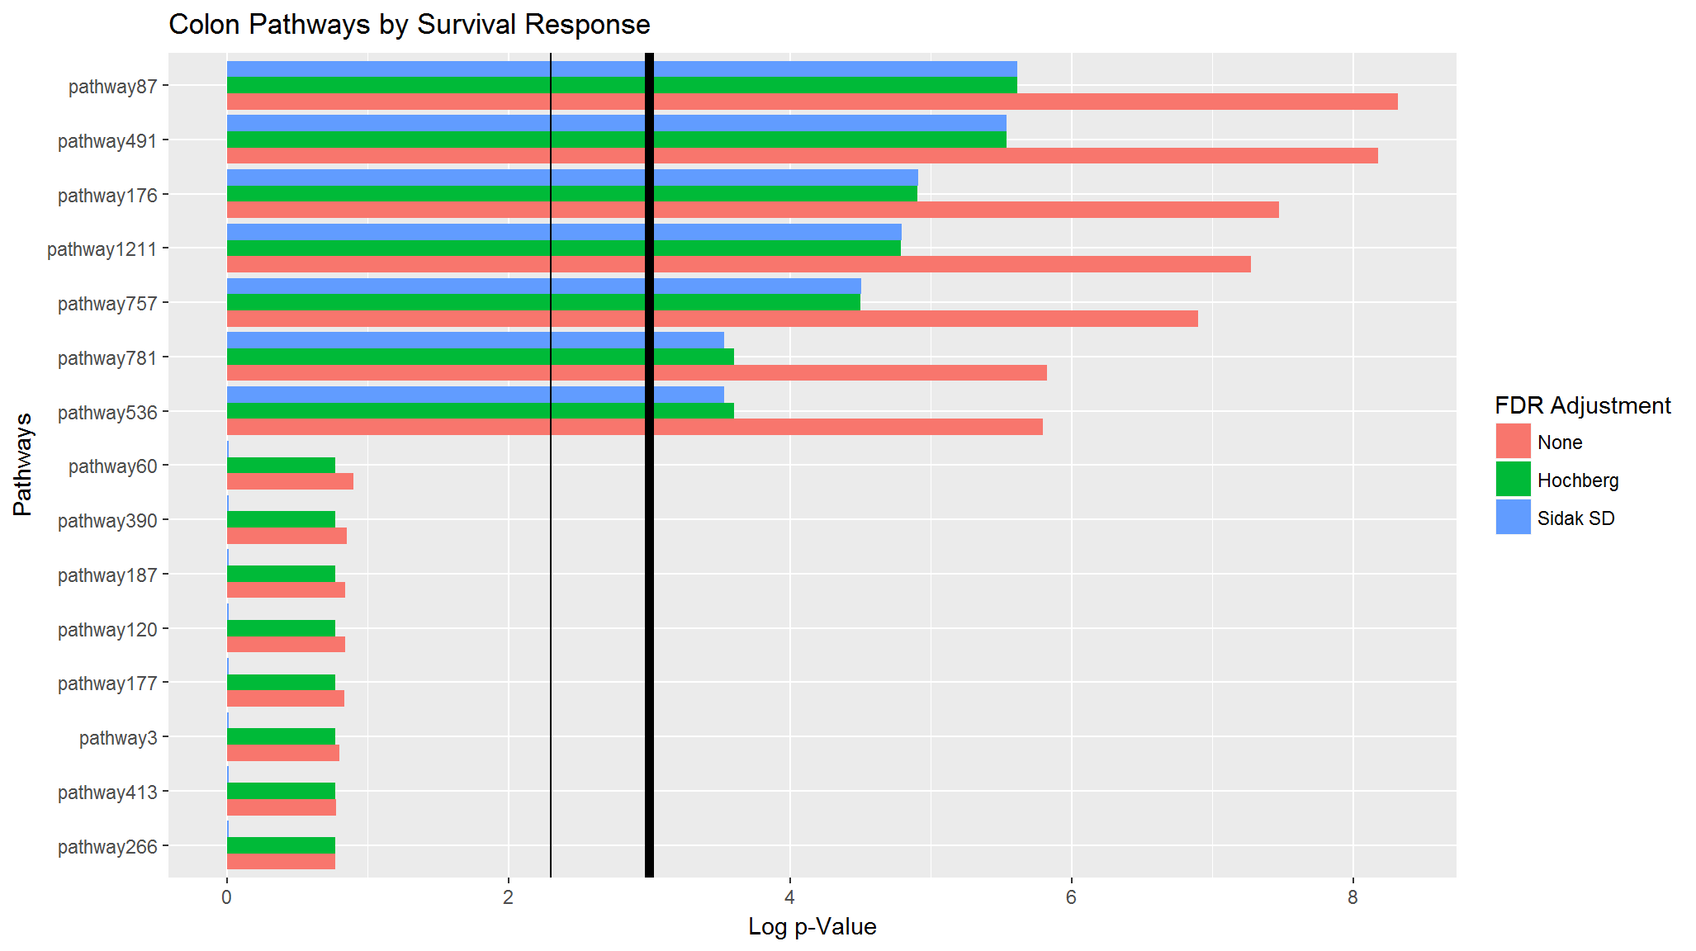
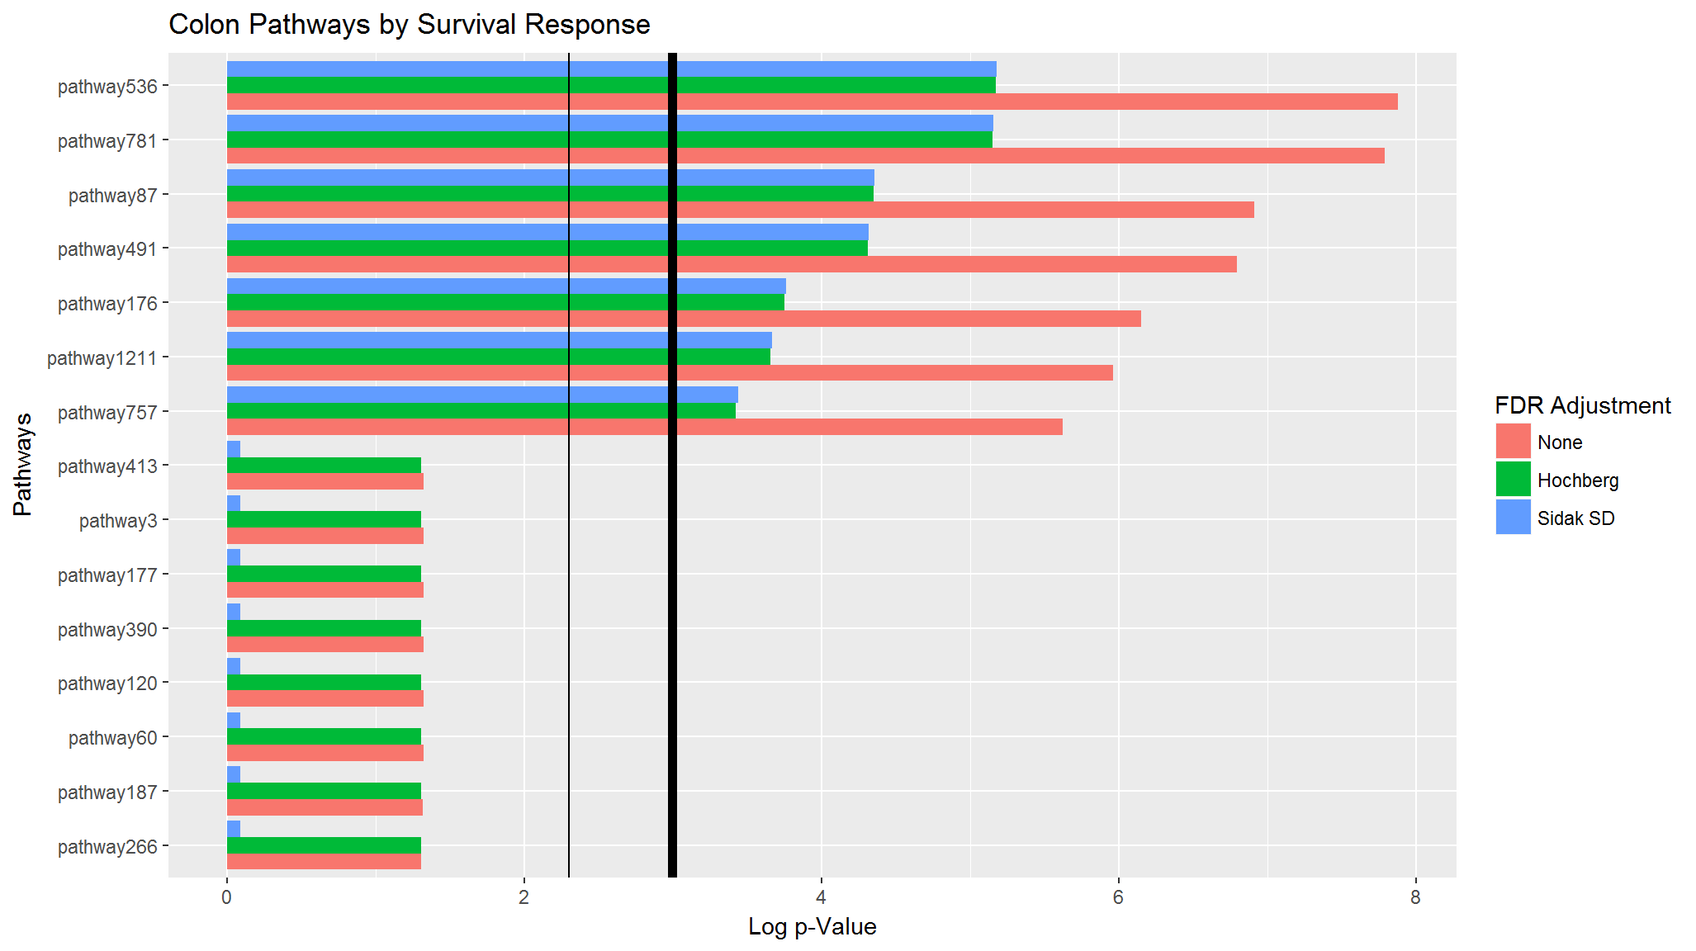
Started working on the "Data import" vignette.
Added TOC to the other vignettes.

diff --git a/docs/articles/Supervised_PCA_Walkthrough.html b/docs/articles/Supervised_PCA_Walkthrough.html
@@ -48,6 +48,9 @@
       <a href="../articles/AES-PCA_Walkthrough.html">AES-PCA Walkthrough with pathwayPCA</a>
     </li>
     <li>
+      <a href="../articles/Importing_Data.html">Import and Tidy Data</a>
+    </li>
+    <li>
       <a href="../articles/Package_Dev_Notes.html">pathwayPCA Package Development Notes</a>
     </li>
     <li>
@@ -81,7 +84,7 @@
       <h1>Supervised PCA Walkthrough with pathwayPCA</h1>
                         <h4 class="author">Gabriel Odom</h4>
             
-            <h4 class="date">2018-03-23</h4>
+            <h4 class="date">2018-04-04</h4>
           </div>
 
     
@@ -308,7 +311,7 @@ surv_pVals_df &lt;-<span class="st"> </span><span class="kw"><a href="../referen
 <span class="co">#&gt; Adjusting p-Values and Sorting Pathway p-Value Data Frame</span>
 <span class="co">#&gt; DONE</span>
 <span class="kw">Sys.time</span>() <span class="op">-</span><span class="st"> </span>a
-<span class="co">#&gt; Time difference of 5.911906 secs</span></code></pre></div>
+<span class="co">#&gt; Time difference of 5.849728 secs</span></code></pre></div>
 </div>
 <div id="regression-response" class="section level3">
 <h3 class="hasAnchor">
@@ -336,7 +339,7 @@ reg_pVals_df &lt;-<span class="st"> </span><span class="kw"><a href="../referenc
 <span class="co">#&gt; Adjusting p-Values and Sorting Pathway p-Value Data Frame</span>
 <span class="co">#&gt; DONE</span>
 <span class="kw">Sys.time</span>() <span class="op">-</span><span class="st"> </span>b
-<span class="co">#&gt; Time difference of 5.257252 secs</span></code></pre></div>
+<span class="co">#&gt; Time difference of 4.705522 secs</span></code></pre></div>
 </div>
 <div id="binary-classification-response" class="section level3">
 <h3 class="hasAnchor">
@@ -364,7 +367,7 @@ categ_pVals_df &lt;-<span class="st"> </span><span class="kw"><a href="../refere
 <span class="co">#&gt; Adjusting p-Values and Sorting Pathway p-Value Data Frame</span>
 <span class="co">#&gt; DONE</span>
 <span class="kw">Sys.time</span>() <span class="op">-</span><span class="st"> </span>d
-<span class="co">#&gt; Time difference of 7.75775 secs</span></code></pre></div>
+<span class="co">#&gt; Time difference of 6.839824 secs</span></code></pre></div>
 </div>
 </div>
 <div id="subset-the-top-pathways" class="section level2">
@@ -372,12 +375,12 @@ categ_pVals_df &lt;-<span class="st"> </span><span class="kw"><a href="../refere
 <a href="#subset-the-top-pathways" class="anchor"></a>Subset the Top Pathways</h2>
 <p>Now that we have the pathway-specific <span class="math inline">\(p\)</span>-values, we can inspect the top pathways by significance. We will first subset the data frame returned by the <code><a href="../reference/superPCA_pVals.html">superPCA_pVals()</a></code> function, then plot the most significant <span class="math inline">\(p\)</span>-values using the <code>ggplot2::</code> package. For graphics, we will need two new packages:</p>
 <div class="sourceCode"><pre class="sourceCode r"><code class="sourceCode r"><span class="kw">library</span>(tidyverse)
-<span class="co">#&gt; -- Attaching packages -------------------------------------------------------------------------------------------------- tidyverse 1.2.1 --</span>
+<span class="co">#&gt; -- Attaching packages ------------------------------------------------------------------------------------------------------------------- tidyverse 1.2.1 --</span>
 <span class="co">#&gt; v ggplot2 2.2.1     v purrr   0.2.4</span>
 <span class="co">#&gt; v tibble  1.4.2     v dplyr   0.7.4</span>
 <span class="co">#&gt; v tidyr   0.8.0     v stringr 1.3.0</span>
 <span class="co">#&gt; v readr   1.1.1     v forcats 0.3.0</span>
-<span class="co">#&gt; -- Conflicts ----------------------------------------------------------------------------------------------------- tidyverse_conflicts() --</span>
+<span class="co">#&gt; -- Conflicts ---------------------------------------------------------------------------------------------------------------------- tidyverse_conflicts() --</span>
 <span class="co">#&gt; x dplyr::filter() masks stats::filter()</span>
 <span class="co">#&gt; x dplyr::lag()    masks stats::lag()</span>
 <span class="kw">library</span>(reshape2)
@@ -478,22 +481,18 @@ S_j := - \frac{1}{A}\sum\limits_{a = 1}^A \log(p_{aj}).
 <p>Now consider the rows of this matrix. Each row is a gene, and the <span class="math inline">\(j^{th}\)</span> entry in the row is equal to <span class="math inline">\(S_j\)</span>, if the gene is included in pathway <span class="math inline">\(j\)</span>, and 0 otherwise. These genes can be compared by the raw row sum of scores, or by the average of the non-zero scores. The <code><a href="../reference/topGenes.html">topGenes()</a></code> function returns the top 5% of both. As we can see, most of the genes included in the <code>summedRank</code> vector are the in the list of “usual suspects” for colon cancer.</p>
 <div class="sourceCode"><pre class="sourceCode r"><code class="sourceCode r"><span class="kw"><a href="../reference/topGenes.html">topGenes</a></span>(<span class="dt">object =</span> colon_OmicsSurv, <span class="dt">pVals_df =</span> surv_pVals_df, <span class="dt">percentile =</span> <span class="fl">0.02</span>)
 <span class="co">#&gt; $summedRank</span>
-<span class="co">#&gt;   PIK3CA   PIK3R1    MAPK1   MAP2K1     NRAS     GRB2    MAPK3     HRAS </span>
-<span class="co">#&gt; 28.91327 28.91327 25.66950 25.34743 25.34743 25.34743 25.34743 25.34743 </span>
-<span class="co">#&gt;     KRAS   PIK3CB   PIK3R2     SHC1      CRK </span>
-<span class="co">#&gt; 25.34743 23.37546 23.37546 20.44055 20.44055 </span>
+<span class="co">#&gt;   PIK3CA   PIK3R1   PIK3CB   PIK3R2    MAPK1   MAP2K1     NRAS     GRB2 </span>
+<span class="co">#&gt; 24.67401 24.67401 20.36042 20.36042 20.04292 19.52017 19.52017 19.52017 </span>
+<span class="co">#&gt;    MAPK3     HRAS     KRAS     SHC1      CRK </span>
+<span class="co">#&gt; 19.52017 19.52017 19.52017 15.76274 15.76274 </span>
 <span class="co">#&gt; </span>
 <span class="co">#&gt; $averagedRank</span>
-<span class="co">#&gt;     PAK3      BTC     ELK1     NRG1     PAK4     NRG3    MAPK9    ERBB4 </span>
-<span class="co">#&gt; 5.612152 5.612152 5.612152 5.612152 5.612152 5.612152 5.612152 5.612152 </span>
-<span class="co">#&gt;   MAPK10    ERBB3     ABL1     NRG2     ABL2     SHC4  RPS6KB2     AREG </span>
-<span class="co">#&gt; 5.612152 5.612152 5.612152 5.612152 5.612152 5.612152 5.612152 5.612152 </span>
-<span class="co">#&gt;   STAT5B   STAT5A     PAK6      MYC     NRG4    GSK3B     CBLB      CBL </span>
-<span class="co">#&gt; 5.612152 5.612152 5.612152 5.612152 5.612152 5.612152 5.612152 5.612152 </span>
-<span class="co">#&gt;   CDKN1B   CDKN1A     EREG     NCK2   CAMK2A   CAMK2B   CAMK2D   CAMK2G </span>
-<span class="co">#&gt; 5.612152 5.612152 5.612152 5.612152 5.612152 5.612152 5.612152 5.612152 </span>
-<span class="co">#&gt;     CBLC     CRKL    HBEGF </span>
-<span class="co">#&gt; 5.612152 5.612152 5.612152</span></code></pre></div>
+<span class="co">#&gt;   MAP4K5    TRAF1     RFFL    STAT1    NSMAF   MAP3K5     TAB2    PRKCZ </span>
+<span class="co">#&gt; 5.175565 5.175565 5.175565 5.175565 5.175565 5.175565 5.175565 5.175565 </span>
+<span class="co">#&gt;  TNFAIP3     CAV1   MAP3K3    PRKCI    BIRC3      TXN   SQSTM1   MAP4K3 </span>
+<span class="co">#&gt; 5.175565 5.175565 5.175565 5.175565 5.175565 5.175565 5.175565 5.175565 </span>
+<span class="co">#&gt;   MAP4K2     TAB1     TNIK      NRK   ADAM17     CYLD    BIRC2 </span>
+<span class="co">#&gt; 5.175565 5.175565 5.175565 5.175565 5.175565 5.175565 5.175565</span></code></pre></div>
 </div>
 </div>
   </div>

diff --git a/docs/articles/AES-PCA_Walkthrough.html b/docs/articles/AES-PCA_Walkthrough.html
@@ -48,6 +48,9 @@
       <a href="../articles/AES-PCA_Walkthrough.html">AES-PCA Walkthrough with pathwayPCA</a>
     </li>
     <li>
+      <a href="../articles/Importing_Data.html">Import and Tidy Data</a>
+    </li>
+    <li>
       <a href="../articles/Package_Dev_Notes.html">pathwayPCA Package Development Notes</a>
     </li>
     <li>
@@ -81,7 +84,7 @@
       <h1>AES-PCA Walkthrough with pathwayPCA</h1>
                         <h4 class="author">Gabriel Odom</h4>
             
-            <h4 class="date">2018-03-23</h4>
+            <h4 class="date">2018-04-04</h4>
           </div>
 
     
@@ -303,7 +306,7 @@ surv_pVals_df &lt;-<span class="st"> </span><span class="kw"><a href="../referen
 <span class="co">#&gt;  Part 3: Adjusting p-Values and Sorting Pathway p-Value Data Frame</span>
 <span class="co">#&gt; DONE</span>
 <span class="kw">Sys.time</span>() <span class="op">-</span><span class="st"> </span>a
-<span class="co">#&gt; Time difference of 28.35032 secs</span></code></pre></div>
+<span class="co">#&gt; Time difference of 25.72435 secs</span></code></pre></div>
 </div>
 <div id="regression-response" class="section level3">
 <h3 class="hasAnchor">
@@ -337,7 +340,7 @@ reg_pVals_df &lt;-<span class="st"> </span><span class="kw"><a href="../referenc
 <span class="co">#&gt;  Part 3: Adjusting p-Values and Sorting Pathway p-Value Data Frame</span>
 <span class="co">#&gt; DONE</span>
 <span class="kw">Sys.time</span>() <span class="op">-</span><span class="st"> </span>b
-<span class="co">#&gt; Time difference of 16.29027 secs</span></code></pre></div>
+<span class="co">#&gt; Time difference of 14.09975 secs</span></code></pre></div>
 </div>
 <div id="binary-classification-response" class="section level3">
 <h3 class="hasAnchor">
@@ -371,7 +374,7 @@ categ_pVals_df &lt;-<span class="st"> </span><span class="kw"><a href="../refere
 <span class="co">#&gt;  Part 3: Adjusting p-Values and Sorting Pathway p-Value Data Frame</span>
 <span class="co">#&gt; DONE</span>
 <span class="kw">Sys.time</span>() <span class="op">-</span><span class="st"> </span>d
-<span class="co">#&gt; Time difference of 26.89987 secs</span></code></pre></div>
+<span class="co">#&gt; Time difference of 23.40692 secs</span></code></pre></div>
 </div>
 </div>
 <div id="subset-the-top-pathways" class="section level2">
@@ -379,12 +382,12 @@ categ_pVals_df &lt;-<span class="st"> </span><span class="kw"><a href="../refere
 <a href="#subset-the-top-pathways" class="anchor"></a>Subset the Top Pathways</h2>
 <p>Now that we have the pathway-specific <span class="math inline">\(p\)</span>-values, we can inspect the top pathways by significance. We will first subset the data frame returned by the <code><a href="../reference/superPCA_pVals.html">superPCA_pVals()</a></code> function, then plot the most significant <span class="math inline">\(p\)</span>-values using the <code>ggplot2::</code> package. For graphics, we will need two new packages:</p>
 <div class="sourceCode"><pre class="sourceCode r"><code class="sourceCode r"><span class="kw">library</span>(tidyverse)
-<span class="co">#&gt; -- Attaching packages -------------------------------------------------------------------------------------------------- tidyverse 1.2.1 --</span>
+<span class="co">#&gt; -- Attaching packages ------------------------------------------------------------------------------------------------------------------- tidyverse 1.2.1 --</span>
 <span class="co">#&gt; v ggplot2 2.2.1     v purrr   0.2.4</span>
 <span class="co">#&gt; v tibble  1.4.2     v dplyr   0.7.4</span>
 <span class="co">#&gt; v tidyr   0.8.0     v stringr 1.3.0</span>
 <span class="co">#&gt; v readr   1.1.1     v forcats 0.3.0</span>
-<span class="co">#&gt; -- Conflicts ----------------------------------------------------------------------------------------------------- tidyverse_conflicts() --</span>
+<span class="co">#&gt; -- Conflicts ---------------------------------------------------------------------------------------------------------------------- tidyverse_conflicts() --</span>
 <span class="co">#&gt; x dplyr::filter() masks stats::filter()</span>
 <span class="co">#&gt; x dplyr::lag()    masks stats::lag()</span>
 <span class="kw">library</span>(reshape2)
@@ -486,27 +489,27 @@ S_j := - \frac{1}{A}\sum\limits_{a = 1}^A \log(p_{aj}).
 <div class="sourceCode"><pre class="sourceCode r"><code class="sourceCode r"><span class="kw"><a href="../reference/topGenes.html">topGenes</a></span>(<span class="dt">object =</span> colon_OmicsSurv, <span class="dt">pVals_df =</span> surv_pVals_df, <span class="dt">percentile =</span> <span class="fl">0.02</span>)
 <span class="co">#&gt; $summedRank</span>
 <span class="co">#&gt;   PIK3CA   PIK3R1    MAPK1   MAP2K1     NRAS     GRB2    MAPK3     HRAS </span>
-<span class="co">#&gt; 21.77699 21.77699 17.51243 17.47818 17.47818 17.47818 17.47818 17.47818 </span>
+<span class="co">#&gt; 16.79290 16.79290 13.17714 13.13627 13.13627 13.13627 13.13627 13.13627 </span>
 <span class="co">#&gt;     KRAS   PIK3CB   PIK3R2     SHC1      CRK </span>
-<span class="co">#&gt; 17.47818 17.47818 17.47818 17.44393 17.44393 </span>
+<span class="co">#&gt; 13.13627 13.13627 13.13627 13.09540 13.09540 </span>
 <span class="co">#&gt; </span>
 <span class="co">#&gt; $averagedRank</span>
 <span class="co">#&gt;     FRS2    THEM4      KLB     DOK1    EIF4B    EIF4E   EIF4G1     FGF1 </span>
-<span class="co">#&gt; 5.839461 5.839461 5.839461 5.839461 5.839461 5.839461 5.839461 5.839461 </span>
+<span class="co">#&gt; 3.929912 3.929912 3.929912 3.929912 3.929912 3.929912 3.929912 3.929912 </span>
 <span class="co">#&gt;     FGF2     FGF3     FGF4     FGF5     FGF6     FGF7     FGF8     FGF9 </span>
-<span class="co">#&gt; 5.839461 5.839461 5.839461 5.839461 5.839461 5.839461 5.839461 5.839461 </span>
+<span class="co">#&gt; 3.929912 3.929912 3.929912 3.929912 3.929912 3.929912 3.929912 3.929912 </span>
 <span class="co">#&gt;    FGF10    FGFR1    FGFR3    FGFR2    FGFR4    FGF20    FGF22    GRB10 </span>
-<span class="co">#&gt; 5.839461 5.839461 5.839461 5.839461 5.839461 5.839461 5.839461 5.839461 </span>
+<span class="co">#&gt; 3.929912 3.929912 3.929912 3.929912 3.929912 3.929912 3.929912 3.929912 </span>
 <span class="co">#&gt;      INS     INSR     IRS1    PDE3B   PRKAG2    CAB39   PRKAG3     TLR9 </span>
-<span class="co">#&gt; 5.839461 5.839461 5.839461 5.839461 5.839461 5.839461 5.839461 5.839461 </span>
+<span class="co">#&gt; 3.929912 3.929912 3.929912 3.929912 3.929912 3.929912 3.929912 3.929912 </span>
 <span class="co">#&gt;    PPM1A   STRADB   PRKAA1   PRKAA2   PRKAB1   PRKAB2   PRKAG1    RPTOR </span>
-<span class="co">#&gt; 5.839461 5.839461 5.839461 5.839461 5.839461 5.839461 5.839461 5.839461 </span>
+<span class="co">#&gt; 3.929912 3.929912 3.929912 3.929912 3.929912 3.929912 3.929912 3.929912 </span>
 <span class="co">#&gt;    TRIB3     RHEB     RPS6    MLST8    STK11     TSC1     TSC2    YWHAB </span>
-<span class="co">#&gt; 5.839461 5.839461 5.839461 5.839461 5.839461 5.839461 5.839461 5.839461 </span>
+<span class="co">#&gt; 3.929912 3.929912 3.929912 3.929912 3.929912 3.929912 3.929912 3.929912 </span>
 <span class="co">#&gt;    FGF23   CAB39L     IRS2    FGF18    FGF17   STRADA       KL     CDK1 </span>
-<span class="co">#&gt; 5.839461 5.839461 5.839461 5.839461 5.839461 5.839461 5.839461 5.839461 </span>
+<span class="co">#&gt; 3.929912 3.929912 3.929912 3.929912 3.929912 3.929912 3.929912 3.929912 </span>
 <span class="co">#&gt;    FGF19 </span>
-<span class="co">#&gt; 5.839461</span></code></pre></div>
+<span class="co">#&gt; 3.929912</span></code></pre></div>
 </div>
 </div>
   </div>

diff --git a/docs/articles/Importing_Data.html b/docs/articles/Importing_Data.html
@@ -1,0 +1,157 @@
+<!DOCTYPE html>
+<!-- Generated by pkgdown: do not edit by hand --><html>
+<head>
+<meta http-equiv="Content-Type" content="text/html; charset=UTF-8">
+<meta charset="utf-8">
+<meta http-equiv="X-UA-Compatible" content="IE=edge">
+<meta name="viewport" content="width=device-width, initial-scale=1.0">
+<title>Import and Tidy Data • pathwayPCA</title>
+<!-- jquery --><script src="https://code.jquery.com/jquery-3.1.0.min.js" integrity="sha384-nrOSfDHtoPMzJHjVTdCopGqIqeYETSXhZDFyniQ8ZHcVy08QesyHcnOUpMpqnmWq" crossorigin="anonymous"></script><!-- Bootstrap --><link href="https://maxcdn.bootstrapcdn.com/bootswatch/3.3.7/united/bootstrap.min.css" rel="stylesheet" crossorigin="anonymous">
+<script src="https://maxcdn.bootstrapcdn.com/bootstrap/3.3.7/js/bootstrap.min.js" integrity="sha384-Tc5IQib027qvyjSMfHjOMaLkfuWVxZxUPnCJA7l2mCWNIpG9mGCD8wGNIcPD7Txa" crossorigin="anonymous"></script><!-- Font Awesome icons --><link href="https://maxcdn.bootstrapcdn.com/font-awesome/4.6.3/css/font-awesome.min.css" rel="stylesheet" integrity="sha384-T8Gy5hrqNKT+hzMclPo118YTQO6cYprQmhrYwIiQ/3axmI1hQomh7Ud2hPOy8SP1" crossorigin="anonymous">
+<!-- pkgdown --><link href="../pkgdown.css" rel="stylesheet">
+<script src="../jquery.sticky-kit.min.js"></script><script src="../pkgdown.js"></script><!-- mathjax --><script src="https://mathjax.rstudio.com/latest/MathJax.js?config=TeX-AMS-MML_HTMLorMML"></script><!--[if lt IE 9]>
+<script src="https://oss.maxcdn.com/html5shiv/3.7.3/html5shiv.min.js"></script>
+<script src="https://oss.maxcdn.com/respond/1.4.2/respond.min.js"></script>
+<![endif]-->
+</head>
+<body>
+    <div class="container template-vignette">
+      <header><div class="navbar navbar-default navbar-fixed-top" role="navigation">
+  <div class="container">
+    <div class="navbar-header">
+      <button type="button" class="navbar-toggle collapsed" data-toggle="collapse" data-target="#navbar">
+        <span class="icon-bar"></span>
+        <span class="icon-bar"></span>
+        <span class="icon-bar"></span>
+      </button>
+      <a class="navbar-brand" href="../index.html">pathwayPCA</a>
+    </div>
+    <div id="navbar" class="navbar-collapse collapse">
+      <ul class="nav navbar-nav">
+<li>
+  <a href="..//index.html">
+    <span class="fa fa-home fa-lg"></span>
+     
+  </a>
+</li>
+<li>
+  <a href="../reference/index.html">Reference</a>
+</li>
+<li class="dropdown">
+  <a href="#" class="dropdown-toggle" data-toggle="dropdown" role="button" aria-expanded="false">
+    Articles
+     
+    <span class="caret"></span>
+  </a>
+  <ul class="dropdown-menu" role="menu">
+<li>
+      <a href="../articles/AES-PCA_Walkthrough.html">AES-PCA Walkthrough with pathwayPCA</a>
+    </li>
+    <li>
+      <a href="../articles/Importing_Data.html">Import and Tidy Data</a>
+    </li>
+    <li>
+      <a href="../articles/Package_Dev_Notes.html">pathwayPCA Package Development Notes</a>
+    </li>
+    <li>
+      <a href="../articles/Supervised_PCA_Walkthrough.html">Supervised PCA Walkthrough with pathwayPCA</a>
+    </li>
+  </ul>
+</li>
+<li>
+  <a href="../news/index.html">News</a>
+</li>
+      </ul>
+<ul class="nav navbar-nav navbar-right">
+<li>
+  <a href="https://github.com/gabrielodom/pathwayPCA">
+    <span class="fa fa-github fa-lg"></span>
+     
+  </a>
+</li>
+      </ul>
+</div>
+<!--/.nav-collapse -->
+  </div>
+<!--/.container -->
+</div>
+<!--/.navbar -->
+
+      
+      </header><div class="row">
+  <div class="col-md-9">
+    <div class="page-header toc-ignore">
+      <h1>Import and Tidy Data</h1>
+                        <h4 class="author">Gabriel Odom</h4>
+            
+            <h4 class="date">2018-04-04</h4>
+          </div>
+
+    
+    
+<div class="contents">
+<div id="overview" class="section level1">
+<h1 class="hasAnchor">
+<a href="#overview" class="anchor"></a>Overview</h1>
+<p>This vignette will discuss importing Gene Matrix Transposed (<code>.gmt</code>) <a href="https://software.broadinstitute.org/cancer/software/gsea/wiki/index.php/Data_formats#GMT:_Gene_Matrix_Transposed_file_format_.28.2A.gmt.29">gene set files</a> to a list object with class <code>pathwaySet</code> with the <code>read_gmt</code> function. Also, we will discuss importing assay and response data, and how to make your assay data <a href="https://www.jstatsoft.org/article/view/v059i10">tidy</a>.</p>
+</div>
+<div id="importing-gmt-files" class="section level1">
+<h1 class="hasAnchor">
+<a href="#importing-gmt-files" class="anchor"></a>Importing GMT Files</h1>
+<p>GMT files are one form of gene set file officially recognized by the Gene Set Enrichment Analysis committee of the Broad Institute.</p>
+<div id="gmt-format-description" class="section level2">
+<h2 class="hasAnchor">
+<a href="#gmt-format-description" class="anchor"></a>GMT Format Description</h2>
+<p>GMT-formatted files follow a very specific set of rules:</p>
+<ol style="list-style-type: decimal">
+<li>Each row of the file represents a gene set, and only one gene set is allowed per line.</li>
+<li>The first entry in each row is the gene set name. Eg. <code>"KEGG_STEROID_BIOSYNTHESIS"</code>
+</li>
+<li>The second entry in each row is a brief description of the gene set. Eg. <code>"http://www.broadinstitute.org/gsea/msigdb/cards/KEGG_STEROID_BIOSYNTHESIS"</code>
+</li>
+<li>The third to the last entry on each row are the genes in the gene set. Eg. <code>"SOAT1"  "LSS" "SQLE"  "EBP" "CYP51A1" "DHCR7" "CYP27B1" "DHCR24"  "HSD17B7" "MSMO1" "FDFT1" "SC5DL" "LIPA"  "CEL" "TM7SF2"  "NSDHL" "SOAT2"</code>
+</li>
+<li>Each entry in each line is seperated by a tab.</li>
+</ol>
+</div>
+<div id="the-read_gmt-function" class="section level2">
+<h2 class="hasAnchor">
+<a href="#the-read_gmt-function" class="anchor"></a>The <code>read_gmt</code> Function</h2>
+<p>Based on the clearly-organized <code>.gmt</code> data format, we are able to write a very fast function to read <code>.gmt</code> files into R. The <code>read_gmt</code> function takes in a path specifying where your <code>.gmt</code> file is stored, and outputs a list of gene set information.</p>
+</div>
+</div>
+</div>
+  </div>
+
+  <div class="col-md-3 hidden-xs hidden-sm" id="sidebar">
+        <div id="tocnav">
+      <h2 class="hasAnchor">
+<a href="#tocnav" class="anchor"></a>Contents</h2>
+      <ul class="nav nav-pills nav-stacked">
+<li><a href="#overview">Overview</a></li>
+      <li>
+<a href="#importing-gmt-files">Importing GMT Files</a><ul class="nav nav-pills nav-stacked">
+<li><a href="#gmt-format-description">GMT Format Description</a></li>
+      <li><a href="#the-read_gmt-function">The <code>read_gmt</code> Function</a></li>
+      </ul>
+</li>
+      </ul>
+</div>
+      </div>
+
+</div>
+
+
+      <footer><div class="copyright">
+  <p>Developed by <a href="https://github.com/gabrielodom">Gabriel Odom</a>, James Ban, <a href="http://biostat.med.miami.edu/people/primary-faculty/xi-steven-chen-ph.d">Steven Chen</a>.</p>
+</div>
+
+<div class="pkgdown">
+  <p>Site built with <a href="http://hadley.github.io/pkgdown/">pkgdown</a>.</p>
+</div>
+
+      </footer>
+</div>
+
+  </body>
+</html>

diff --git a/docs/articles/index.html b/docs/articles/index.html
@@ -71,6 +71,9 @@
       <a href="../articles/AES-PCA_Walkthrough.html">AES-PCA Walkthrough with pathwayPCA</a>
     </li>
     <li>
+      <a href="../articles/Importing_Data.html">Import and Tidy Data</a>
+    </li>
+    <li>
       <a href="../articles/Package_Dev_Notes.html">pathwayPCA Package Development Notes</a>
     </li>
     <li>
@@ -110,6 +113,7 @@
 
       <ul>
         <li><a href="AES-PCA_Walkthrough.html">AES-PCA Walkthrough with pathwayPCA</a></li>
+        <li><a href="Importing_Data.html">Import and Tidy Data</a></li>
         <li><a href="Package_Dev_Notes.html">pathwayPCA Package Development Notes</a></li>
         <li><a href="Supervised_PCA_Walkthrough.html">Supervised PCA Walkthrough with pathwayPCA</a></li>
       </ul>

diff --git a/docs/articles/Package_Dev_Notes.html b/docs/articles/Package_Dev_Notes.html
@@ -48,6 +48,9 @@
       <a href="../articles/AES-PCA_Walkthrough.html">AES-PCA Walkthrough with pathwayPCA</a>
     </li>
     <li>
+      <a href="../articles/Importing_Data.html">Import and Tidy Data</a>
+    </li>
+    <li>
       <a href="../articles/Package_Dev_Notes.html">pathwayPCA Package Development Notes</a>
     </li>
     <li>
@@ -81,7 +84,7 @@
       <h1>pathwayPCA Package Development Notes</h1>
                         <h4 class="author">Gabriel J. Odom, PhD, ThD</h4>
             
-            <h4 class="date">2018-03-23</h4>
+            <h4 class="date">2018-04-04</h4>
           </div>
 
     
